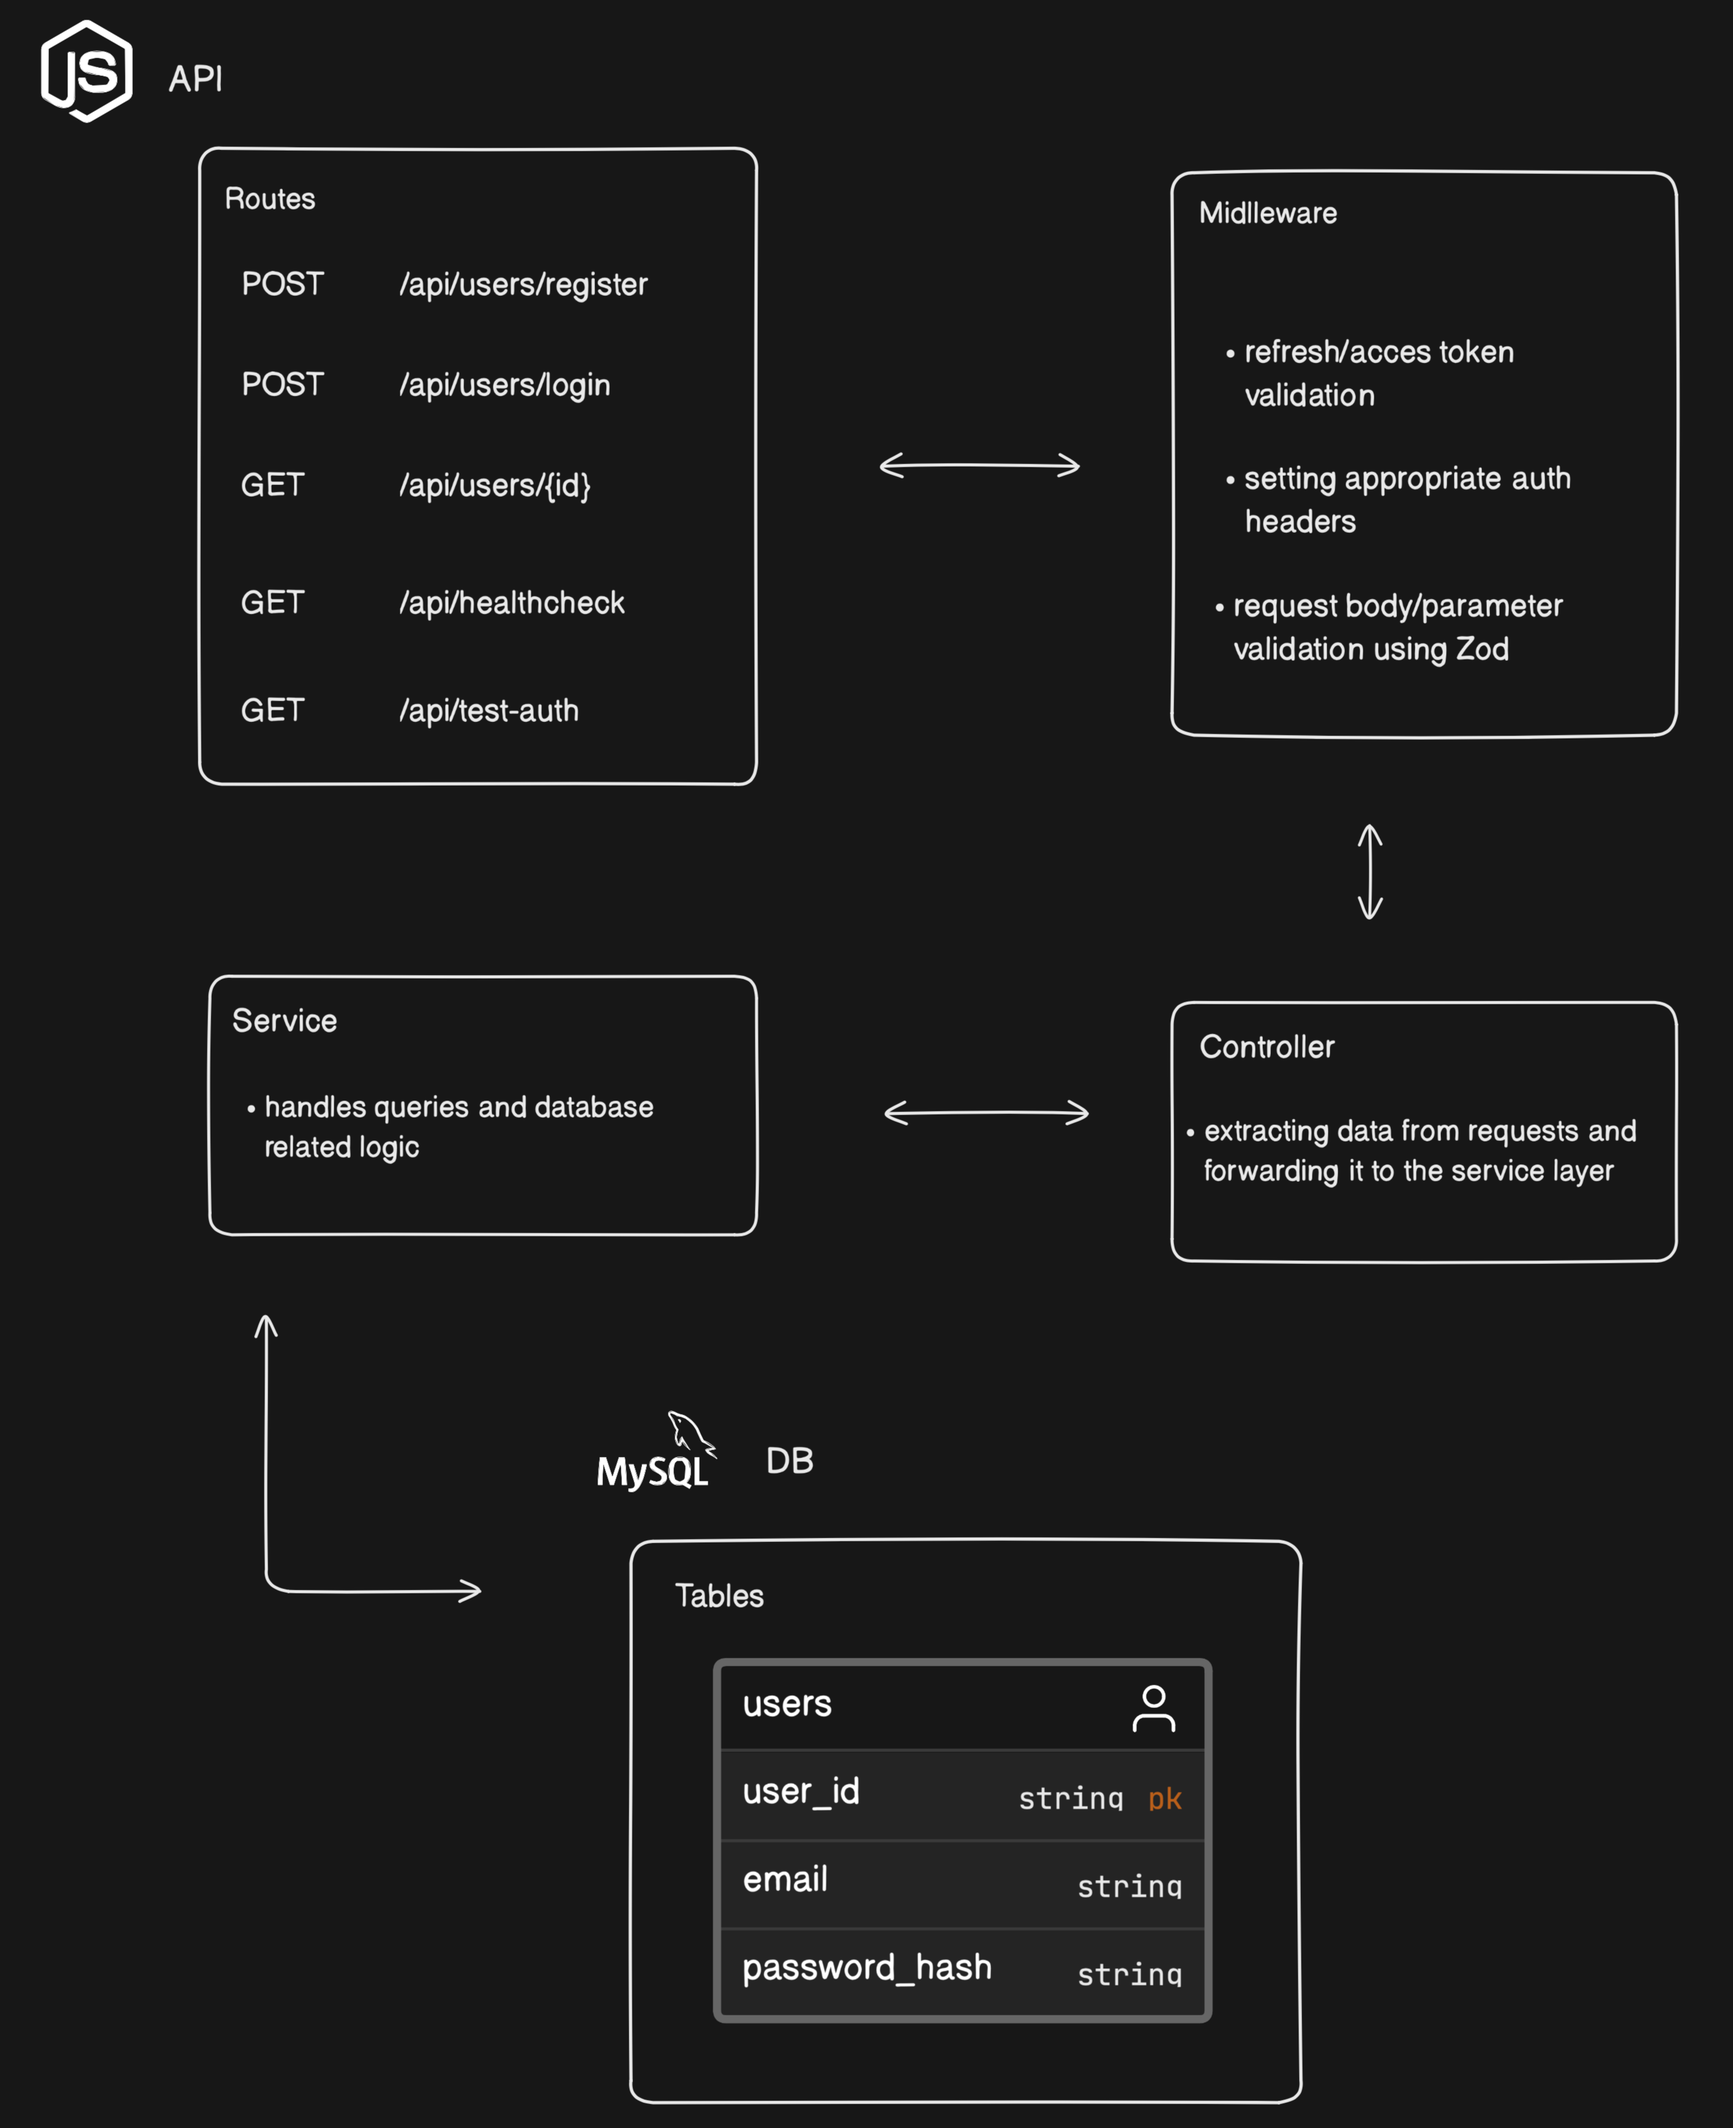
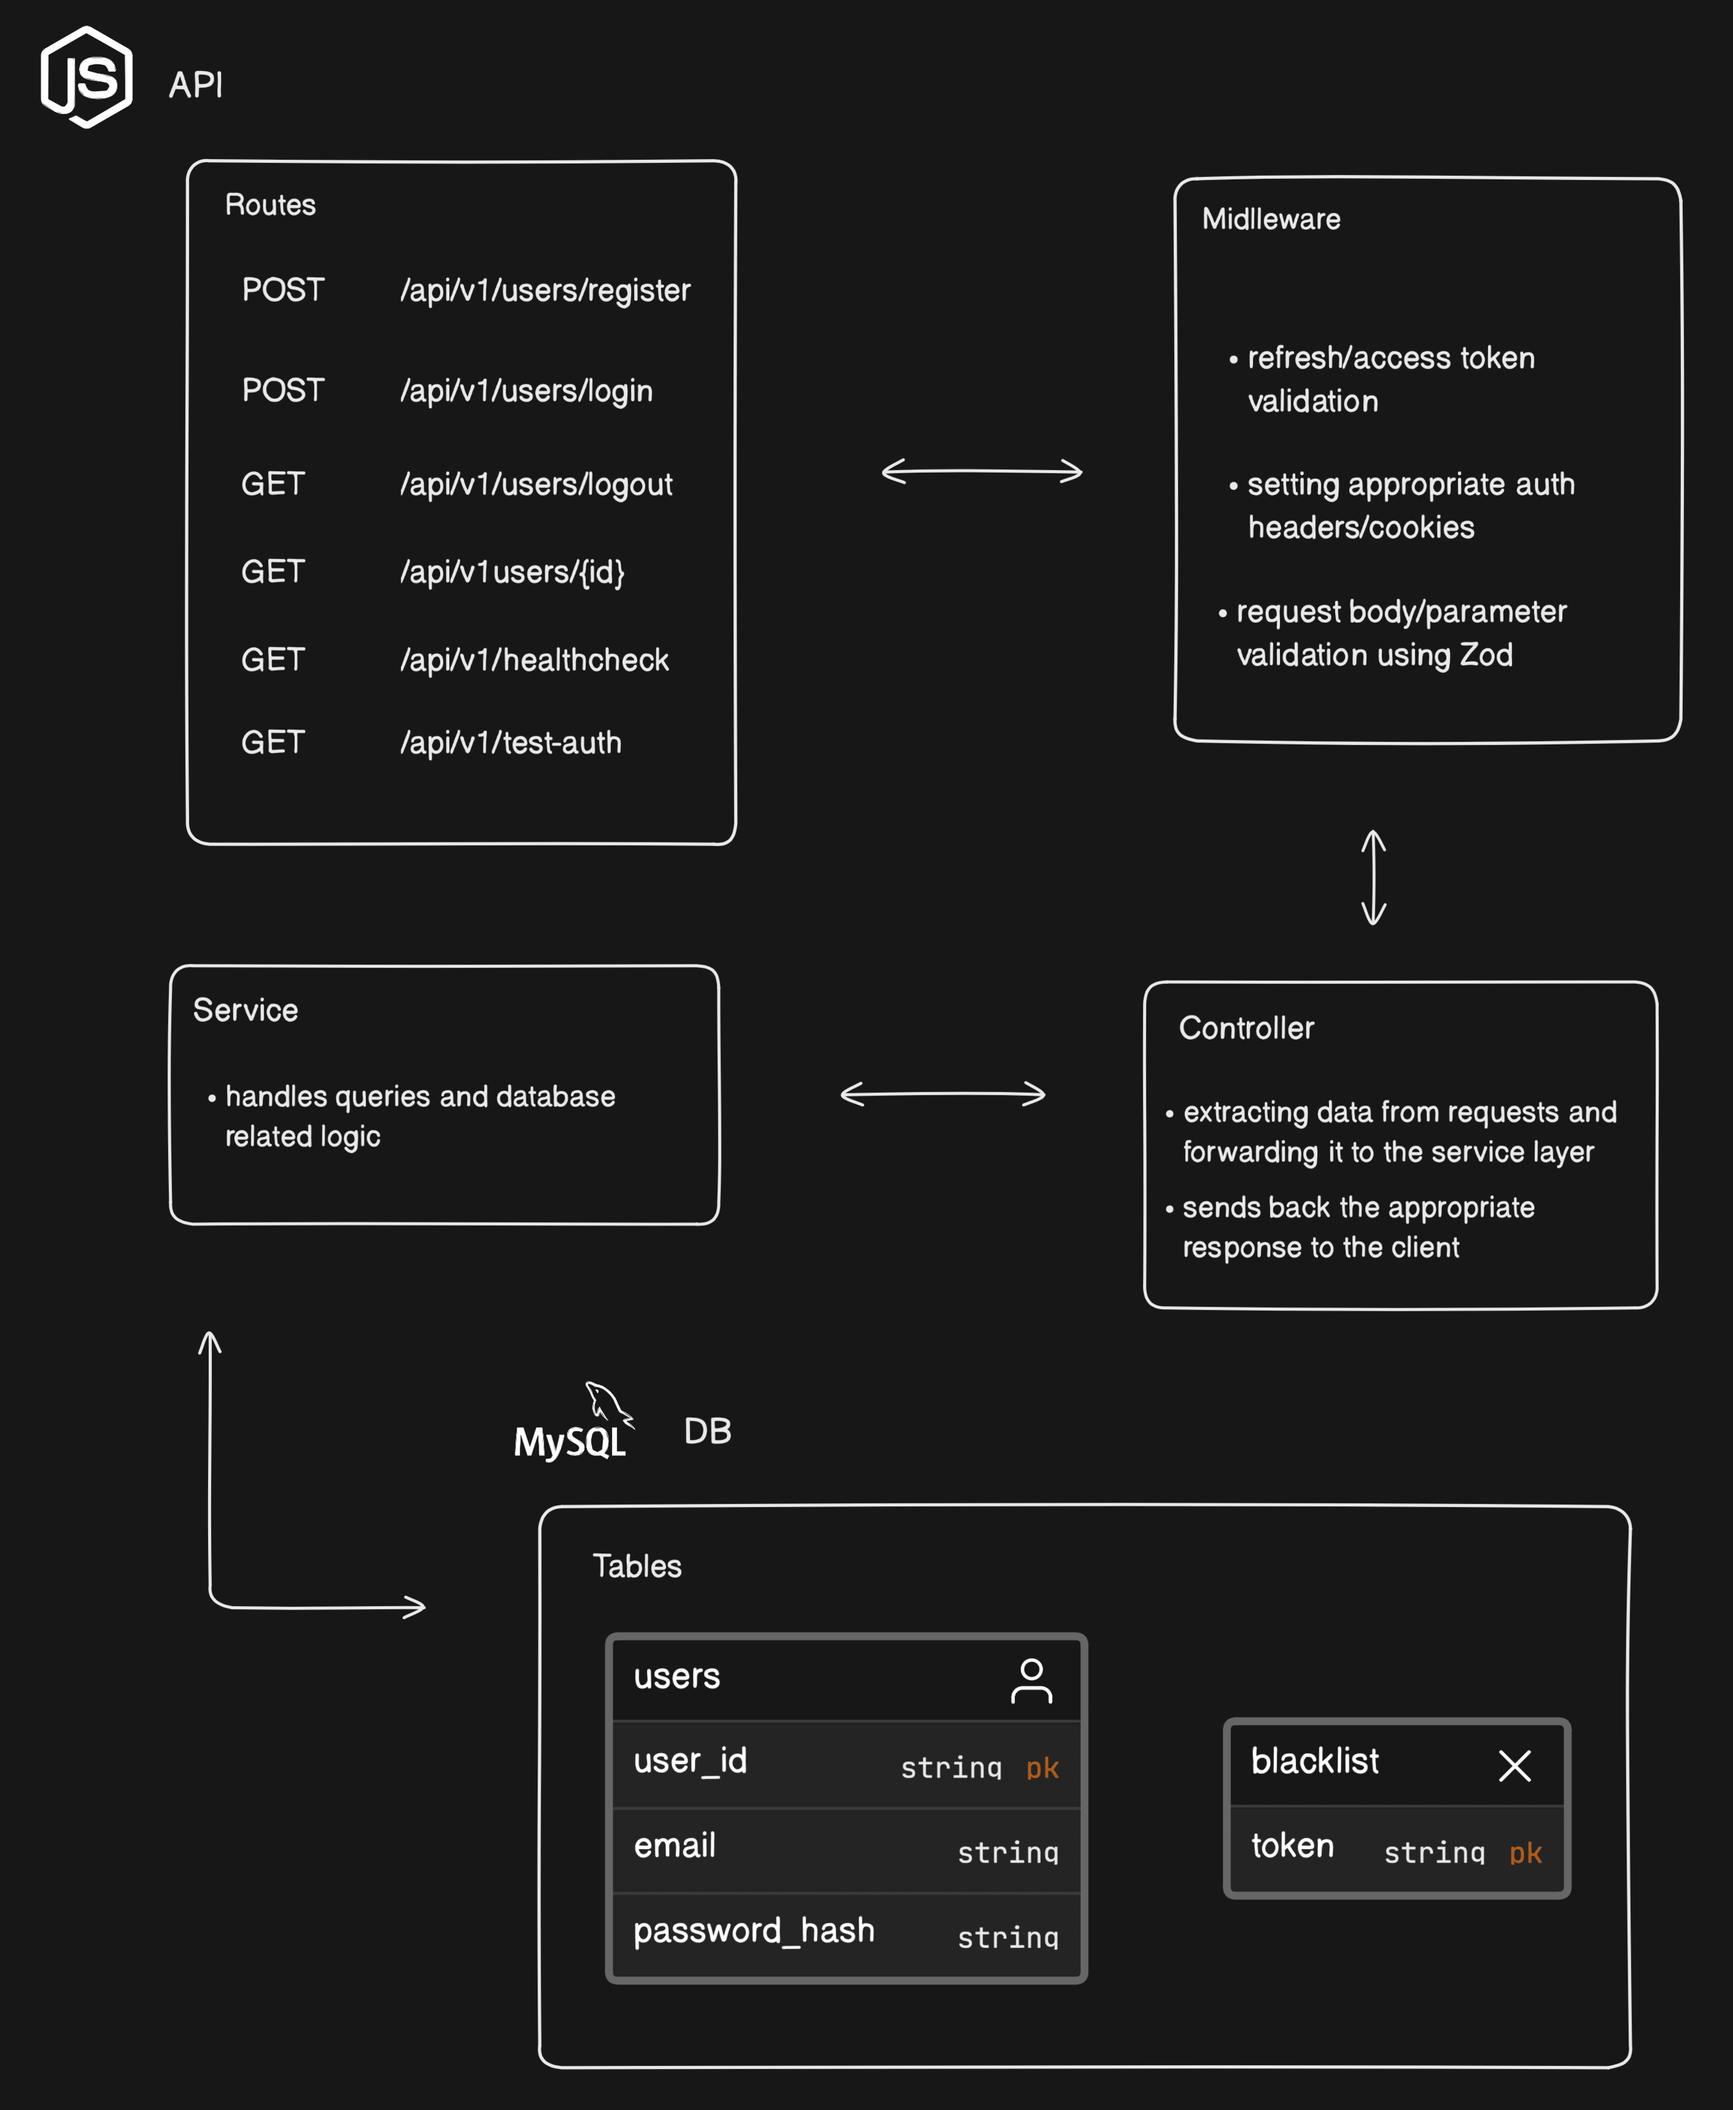
logout functionality

diff --git a/v1/controller/user.controller.ts b/v1/controller/user.controller.ts
@@ -9,6 +9,8 @@ import UserNotFoundError from "../errors/user/UserNotFoundError";
 import IncorrectPasswordError from "../errors/user/IncorrectPasswordError";
 import EmailExistsError from "../errors/user/EmailExistsError";
 import { setTokenCookie } from "../utils/jwt.utils";
+import { get } from "lodash";
+import { blackListToken, checkBlackListedToken } from "../service/blacklist.service";
 
 export async function getUserByIdHandler(
   req: Request<GetUserByIdInput["params"]>,
@@ -24,7 +26,7 @@ export async function getUserByIdHandler(
       return res.status(404).send({ ...err, message: err.message });
     }
 
-    return res.status(500).send(err.message);
+    return res.status(500).send("Could not retrieve user. Please try again.");
   }
 }
 
@@ -34,6 +36,8 @@ export async function loginUserHandler(
 ) {
   try {
     const { user, accessToken, refreshToken } = await loginUser(req.body);
+
+    res.setHeader("Authorization", `Bearer ${accessToken}`);
     setTokenCookie(res, refreshToken, "refresh");
 
     return res.send({ user, accessToken });
@@ -46,7 +50,7 @@ export async function loginUserHandler(
       return res.status(401).send({ ...err, message: err.message });
     }
 
-    return res.status(500).send(err.message);
+    return res.status(500).send("Unable to login. Please try again.");
   }
 }
 
@@ -63,6 +67,31 @@ export async function createUserHandler(
       return res.status(409).send({ ...err, message: err.message });
     }
 
-    return res.status(500).send(err.message);
+    return res.status(500).send("Unable to create user. Please try again.");
   }
 }
+
+export async function logOutUserHandler(req: Request, res: Response) {
+  try {
+    const accessToken = get(req, "headers.authorization", "").replace(
+      /^Bearer\s/,
+      ""
+    );
+
+    const refreshToken = req.cookies.refreshToken;
+
+    if (accessToken) {
+      await blackListToken(accessToken);
+    }
+
+    if (refreshToken) {
+      await blackListToken(refreshToken);
+    }
+
+    res.setHeader("Authorization", "");
+    res.clearCookie("refresh");
+    res.sendStatus(204);
+  } catch (err: any) {
+    return res.status(500).send("Unsuccessful logout. Please try again.");
+  }
+};

diff --git a/v1/routes.ts b/v1/routes.ts
@@ -2,6 +2,7 @@ import { Express, Request, Response } from "express";
 import {
   createUserHandler,
   getUserByIdHandler,
+  logOutUserHandler,
   loginUserHandler,
 } from "./controller/user.controller";
 import {
@@ -13,30 +14,66 @@ import validateResource from "./middleware/validateResource";
 import requireUser from "./middleware/requireUser";
 
 export default function routes(app: Express) {
+  /**
+   * @route GET /healthcheck
+   * @desc Healthcheck endpoint
+   * @access Public
+   */
   app.get("/healthcheck", (_req: Request, res: Response) =>
     res.sendStatus(200)
   );
 
+  /**
+   * @route POST api/v1/users/register
+   * @desc Registers a user
+   * @access Public
+   */
   app.post(
-    "/api/users/register",
+    "/api/v1/users/register",
     validateResource(createUserSchema),
     createUserHandler
   );
 
+  /**
+   * @route POST api/v1/users/login
+   * @desc Registers a user
+   * @access Public
+   */
   app.post(
-    "/api/users/login",
+    "/api/v1/users/login",
     validateResource(loginUserSchema),
     loginUserHandler
   );
 
+  /**
+   * @route GET api/v1/users/:user_id
+   * @desc Gets user by unique id
+   * @access Public
+   */
   app.get(
-    "/api/users/:user_id",
+    "/api/v1/users/:user_id",
     validateResource(getUserByIdSchema),
     getUserByIdHandler
   );
 
+  /**
+   * @route POST api/v1/users/logout
+   * @desc Logs out a user
+   * @access Private
+   */
+  app.post(
+    "/api/v1/users/logout", 
+    requireUser, 
+    logOutUserHandler
+  );
+
+  /**
+   * @route GET api/v1/test-auth
+   * @desc Tests authentication functionality
+   * @access Private
+   */
   app.get(
-    "/api/test-auth", 
+    "/api/v1/test-auth", 
     requireUser, 
     (_req: Request, res: Response) => res.sendStatus(200)
   );

diff --git a/v1/utils/jwt.utils.ts b/v1/utils/jwt.utils.ts
@@ -1,6 +1,7 @@
 import jwt, { JwtPayload } from "jsonwebtoken";
 import { Response } from "express";
 import config from "config";
+import { checkBlackListedToken } from "../service/blacklist.service";
 
 const accessTokenPrivateKey = config.get<string>("JWT.jwtAccessTokenPrivateKey");
 const accessTokenPublicKey = config.get<string>("JWT.jwtAccessTokenPublicKey");
@@ -25,7 +26,17 @@ export function signJwt(
   });
 }
 
-export function verifyJwt(token: string, tokenType: "refresh" | "access") {
+export async function verifyJwt(token: string, tokenType: "refresh" | "access") {
+  const blackListed = await checkBlackListedToken(token);
+
+  if (blackListed) {
+    return {
+      valid: false,
+      expired: false,
+      decoded: null,
+    };
+  }
+
   try {
     const key =
       tokenType === "access" ? accessTokenPublicKey : refreshTokenPublicKey;
@@ -53,13 +64,13 @@ export function setTokenCookie(
   if (tokenType === "access") {
     res.cookie("jwtAccessToken", token, {
       httpOnly: true,
-      maxAge: 15 * 60 * 1000,
+      maxAge: 5 * 60 * 1000,
     });
     return;
   } else {
     res.cookie("jwtRefreshToken", token, {
       httpOnly: true,
-      maxAge: 24 * 60 * 60 * 1000,
+      maxAge: 30 * 60 * 1000,
     });
   }
 }

diff --git a/v1/service/blacklist.service.ts b/v1/service/blacklist.service.ts
@@ -1,0 +1,27 @@
+import pool from "../db/connect";
+import { BlackList } from "../models/blacklist.model";
+
+export async function checkBlackListedToken(token: string) {
+  try {
+    const [blackListedToken] = await pool.query<BlackList[]>(
+      `SELECT * FROM blacklist WHERE token = ?`,
+      [token]
+    );
+
+    return blackListedToken[0];
+  } catch (err: any) {
+    throw err;
+  }
+}
+
+export async function blackListToken(token: string) {
+  if (await checkBlackListedToken(token)) {
+    return;
+  }
+
+  try {
+    await pool.query(`INSERT INTO blacklist (token) VALUES (?)`, [token]);
+  } catch (err: any) {
+    throw err;
+  }
+}

diff --git a/v1/middleware/deserializeUser.ts b/v1/middleware/deserializeUser.ts
@@ -20,7 +20,7 @@ export async function deserializeUser(
     return next();
   }
 
-  const { decoded, expired } = verifyJwt(accessToken, "access");
+  const { decoded, expired } = await verifyJwt(accessToken, "access");
 
   if (decoded) {
     res.locals.user = decoded;
@@ -40,7 +40,7 @@ export async function deserializeUser(
 
     setTokenCookie(res, newRefreshToken, "refresh");
 
-    const result = verifyJwt(newAccessToken, "access");
+    const result = await verifyJwt(newAccessToken, "access");
     res.locals.user = result.decoded;
   }
 

diff --git a/v1/service/user.service.ts b/v1/service/user.service.ts
@@ -141,7 +141,7 @@ export async function createUser(input: UserInput) {
 }
 
 export async function reissueAccessToken(refreshToken: string) {
-  const { decoded } = verifyJwt(refreshToken, "refresh");
+  const { decoded } = await verifyJwt(refreshToken, "refresh");
 
   if (!decoded)
     return {
@@ -176,3 +176,4 @@ export async function reissueAccessToken(refreshToken: string) {
     newRefreshToken: newRefreshToken,
   };
 }
+

diff --git a/v1/middleware/requireUser.ts b/v1/middleware/requireUser.ts
@@ -8,7 +8,7 @@ export default function requireUser(
   const user = res.locals.user;
 
   if (!user) {
-    return res.sendStatus(403);
+    return res.status(401).send("Unauthorized");
   }
 
   return next();

diff --git a/v1/models/blacklist.model.ts b/v1/models/blacklist.model.ts
@@ -1,0 +1,5 @@
+import { RowDataPacket } from "mysql2";
+
+export interface BlackList extends RowDataPacket {
+  token: string;
+}
